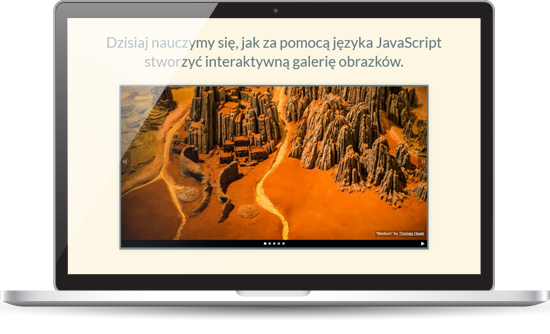
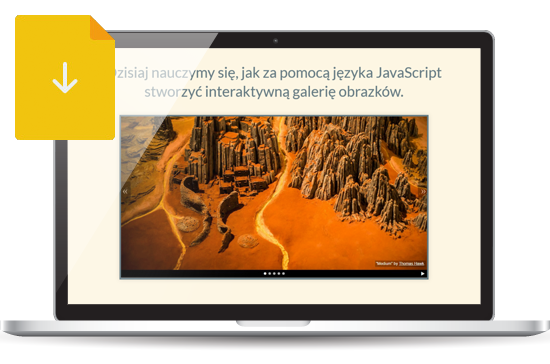
Mobilified materials for 600+ resolutions

diff --git a/css/materials.css b/css/materials.css
@@ -24,39 +24,33 @@
   background: url("../assets/laptop-shadow.png") no-repeat center right;
   background-size: contain;
   width: 50%;
-  height: 334px;
+  height: 364px;
   float: right;
   right: 0;
   top: 90px;
 }
 
-.laptop::before {
-  content: "";
-  width: 105px;
-  height: 135px;
-  background: url("../assets/download.png") no-repeat;
-  position: absolute;
-}
-
-.clearfix {
-  clear: both;
+.more-files {
+  padding-top: 60px;
+  padding-bottom: 84px;
 }
 
 .file {
   background: #f2f2f2;
   border: solid 1px #d8d8d8;
   position: relative;
-  margin: 60px 0px 84px;
+  padding-left: 20%
 }
 
 .file::before {
   content: "";
-  width: 105px;
+  width: 22%;
   height: 135px;
   background: url("../assets/download.png") no-repeat;
+  background-size: contain;
   position: absolute;
-  top: -40px;
-  left: -20px;
+  top: -20px;
+  left: -5%;
 }
 
 .file h5 {
@@ -64,11 +58,9 @@
   font-weight: normal;
   margin: 6px;
   color: #686868;
-  margin-left: 100px;
 }
 
 .file p {
   margin: 6px;
   color: #8c8c8c;
-  margin-left: 100px;
 }

diff --git a/index.html b/index.html
@@ -285,19 +285,21 @@
 
     <div class="clearfix" />
 
-    <article class="col2 left">
-      <div class="file">
-        <h5>Plik 1</h5>
-        <p>Lorem ipsum dolor sit pliczek mój</p>
-      </div>
-    </article>
+    <div class="more-files">
+      <article class="col2 left">
+        <div class="file">
+          <h5>Plik 1</h5>
+          <p>Lorem ipsum dolor sit pliczek mój</p>
+        </div>
+      </article>
 
-    <article class="col2 right">
-      <div class="file">
-        <h5>Plik 2</h5>
-        <p>Lorem ipsum dolor sit pliczek mój</p>
-      </div>
-    </article>
+      <article class="col2 right">
+        <div class="file">
+          <h5>Plik 2</h5>
+          <p>Lorem ipsum dolor sit pliczek mój</p>
+        </div>
+      </article>
+    </div>
 
   </section>
 

diff --git a/css/root.css b/css/root.css
@@ -18,6 +18,10 @@ body {
   font-size: 16px;
 }
 
+.clearfix {
+  clear: both;
+}
+
 .content {
   width: 968px;
   margin: 0 auto;
